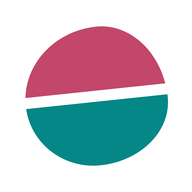
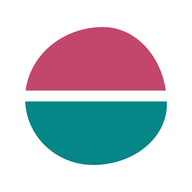
V63: タイトルのOとアプリアイコンの丸の傾きをなくし、ピンクとティールの境目を水平に
Claude-Session: https://claude.ai/code/session_019XW3iqqxNtHZD4kTr9RK9j

diff --git a/index.html b/index.html
@@ -4,7 +4,7 @@
 <link rel="preconnect" href="https://fonts.gstatic.com" crossorigin>
 <link rel="stylesheet" href="https://fonts.googleapis.com/css2?family=Titan+One&family=Rubik:wght@500;600;700;800;900&family=Zen+Maru+Gothic:wght@400;500;700;900&display=swap">
 <style>
-/* Layout: "SCOREBOARD" white (案C白, V29; mobile hardening V33; standalone web V34; name/team suggestions V35; 21-point option V36; 21pt cap 30 V37; wordmark fits CTA width V38; club byline V39; byline pink V40; 2-game format + rule order V41; prepare matches before play V42; POP poster redesign + bouncing title V43; rally line removed V44; byline team name in ink V45; sticker deeper pink + white text V46; title period in logo pink V47; centred plus icon V48; calmer MATCHES heading V49; shuttle O tried V52-53 then back to the two-tone dot V54; rougher hand-made dot V55; page labels match MATCHES V56; lighter page headings V57; card labels in the same face V57; one type system everywhere V58; pink prepare button with white text V61; sticker tilts down to the right V62) — white ground, flat light-grey cards, rounded-rect controls; bright teal (A / primary) and bright pink (B) from the club logo; score mode = two deep-tinted panels with numbers in logo teal / deep pink. The printed sheet stays white paper. */
+/* Layout: "SCOREBOARD" white (案C白, V29; mobile hardening V33; standalone web V34; name/team suggestions V35; 21-point option V36; 21pt cap 30 V37; wordmark fits CTA width V38; club byline V39; byline pink V40; 2-game format + rule order V41; prepare matches before play V42; POP poster redesign + bouncing title V43; rally line removed V44; byline team name in ink V45; sticker deeper pink + white text V46; title period in logo pink V47; centred plus icon V48; calmer MATCHES heading V49; shuttle O tried V52-53 then back to the two-tone dot V54; rougher hand-made dot V55; page labels match MATCHES V56; lighter page headings V57; card labels in the same face V57; one type system everywhere V58; pink prepare button with white text V61; sticker tilts down to the right V62; level divider in the title dot V63) — white ground, flat light-grey cards, rounded-rect controls; bright teal (A / primary) and bright pink (B) from the club logo; score mode = two deep-tinted panels with numbers in logo teal / deep pink. The printed sheet stays white paper. */
 :root{
   --bg:#FFFFFF; --surface:#F1F6F6; --field:#FFFFFF; --ink:#142625; --muted:#5E7372; --line:#DCE7E6;
   --teal:#058687; --on-teal:#FFFFFF; --teal-tint:#DCEEEE; --teal-ink:#046A6B;
@@ -54,7 +54,7 @@ h2.sec .en{font-family:var(--font-num);font-weight:800;font-size:15px;letter-spa
 .wordmark .ch{display:inline-block;transform-origin:50% 100%}
 .wordmark .pd{color:var(--pink-dot)}
 /* V55: a slightly hand-made circle so it sits with the soft, uneven letters of the title */
-.wordmark .dot{display:inline-block;width:.72em;height:.7em;border-radius:55% 45% 52% 48% / 52% 56% 44% 48%;margin:0 .04em;transform:rotate(-6deg);background:linear-gradient(var(--pink-dot) 0 46%,transparent 46% 54%,#FFFFFF 54% 100%)}
+.wordmark .dot{display:inline-block;width:.72em;height:.7em;border-radius:55% 45% 52% 48% / 52% 56% 44% 48%;margin:0 .04em;background:linear-gradient(var(--pink-dot) 0 46%,transparent 46% 54%,#FFFFFF 54% 100%)}
 .byline{margin:0;align-self:flex-end;font-family:var(--font-num);font-weight:700;font-size:12px;letter-spacing:.12em;color:var(--muted);white-space:nowrap}
 .byline b{font-weight:800;color:var(--ink)}
 /* opening animation (V43): letters drop in and bounce, then the sticker pops */
